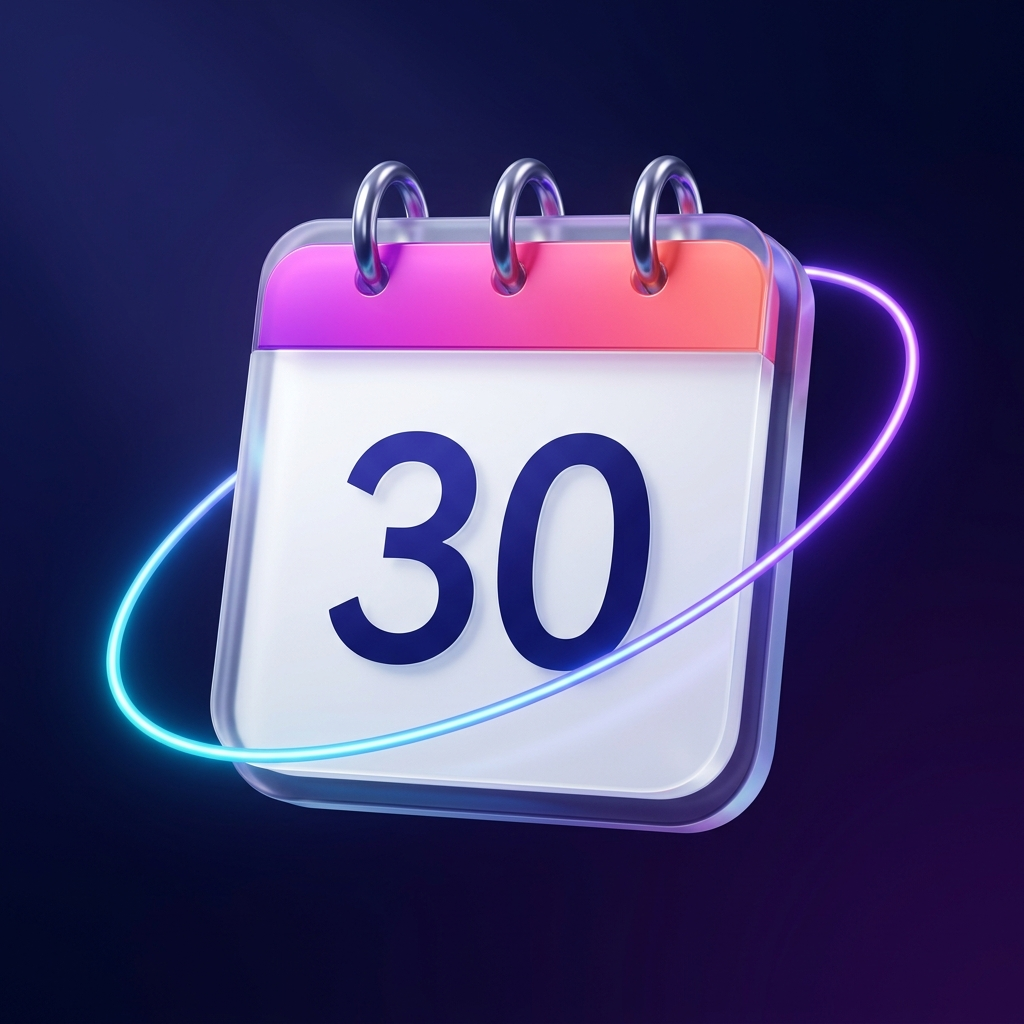
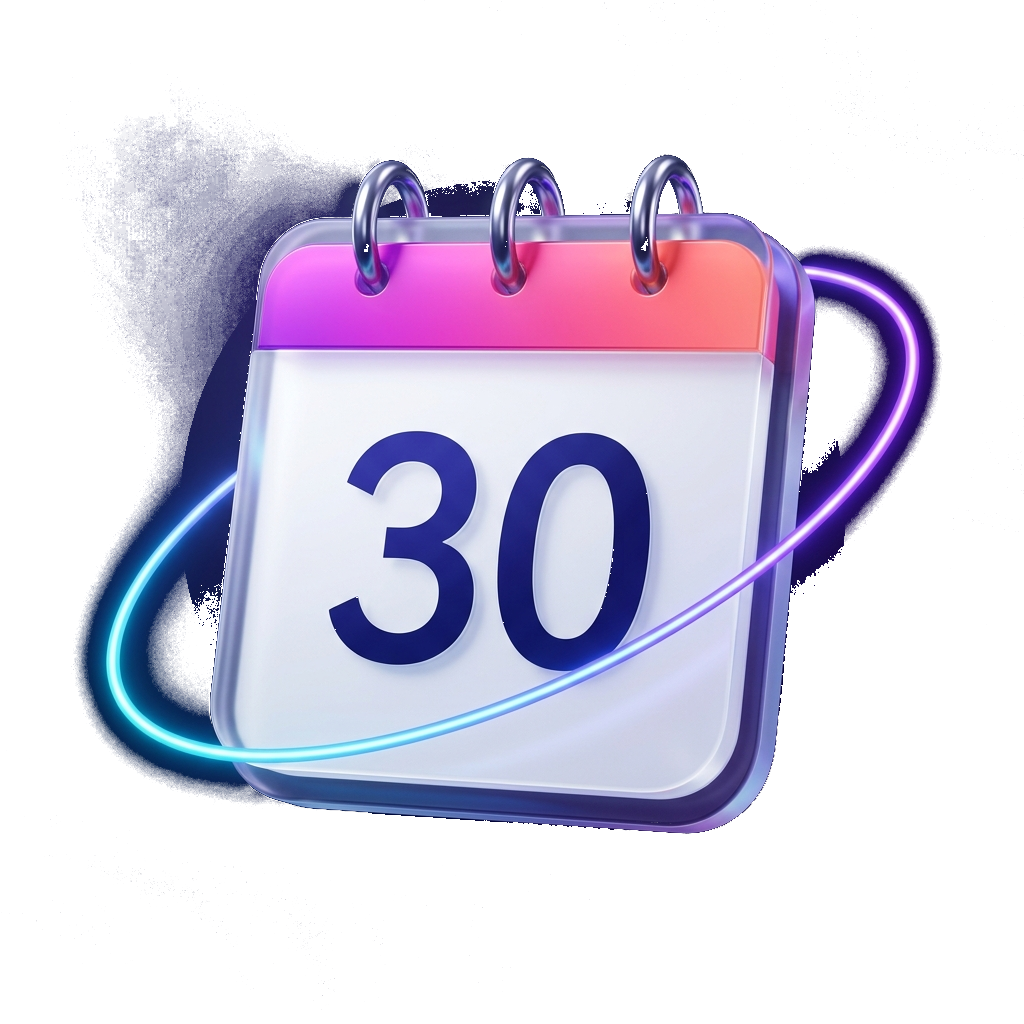
feat: 发布 v0.2.0 修复应用市场审核驳回分层图标规范与体验模式，待办事项支持左滑删除

diff --git a/README.md b/README.md
@@ -2,13 +2,21 @@
 
 一款以**同步为核心**的鸿蒙原生日历应用，基于 HarmonyOS NEXT（ArkTS / Stage 模型）开发。对接标准 CalDAV 服务器（群晖、Nextcloud、Radicale、Baikal 等），让你的日程真正掌握在自己手里——不经过第三方云服务，数据始终同步在你自己的 NAS 上。
 
-- 应用市场送审版本：**0.1.0** ｜ 仓库当前：**0.1.9**（versionCode 10009）
+- 应用市场送审版本：**0.1.0** ｜ 仓库当前：**0.2.0**（versionCode 10010）
 - 官网：<https://synccalendar.yangyq.net> ｜ 问题反馈：<https://synccalendar.yangyq.net/feedback/>
 - 开源协议：Apache License 2.0
 
 ---
 
 ## 📝 最近更新
+
+### v0.2.0 (2026-11-01)
+- 🛡 **全面修复华为应用市场审核驳回问题（规范 7.1.1.4.3 & 核心功能审核体验）**：
+  - **分层图标合规重构**：重新构建直角方角、100% 完全不透明（无任何透明像素）的高清后景图 `background.png`，彻底解决审核报告中「应用图标后景图为圆角/存在透明像素」的硬性驳回问题；
+  - **新增一键体验演示模式（Demo Mode）**：在账号管理页新增「🚀 体验演示模式（免账号）」入口，一键注入全套精美示例日程与待办清单，彻底解决审核员因无私有 CalDAV 账号无法注册/测试核心功能的痛点。
+- 👈 **待办事项列表全面升级为原生左滑删除**：
+  - 移除原先待办卡片右侧常驻的删除图标，列表视觉更显现代极简与统一；
+  - 采用 ArkUI 原生 `swipeAction` 交互，向左滑动待办卡片时平滑拉出红底「删除」按钮，点击弹出删除确认对话框并支持双向云端同步，防误触体验极佳。
 
 ### v0.1.9 (2026-11-01)
 - 🌟 **全新专业「待办编辑页」（TodoEditPage）正式上线**：
